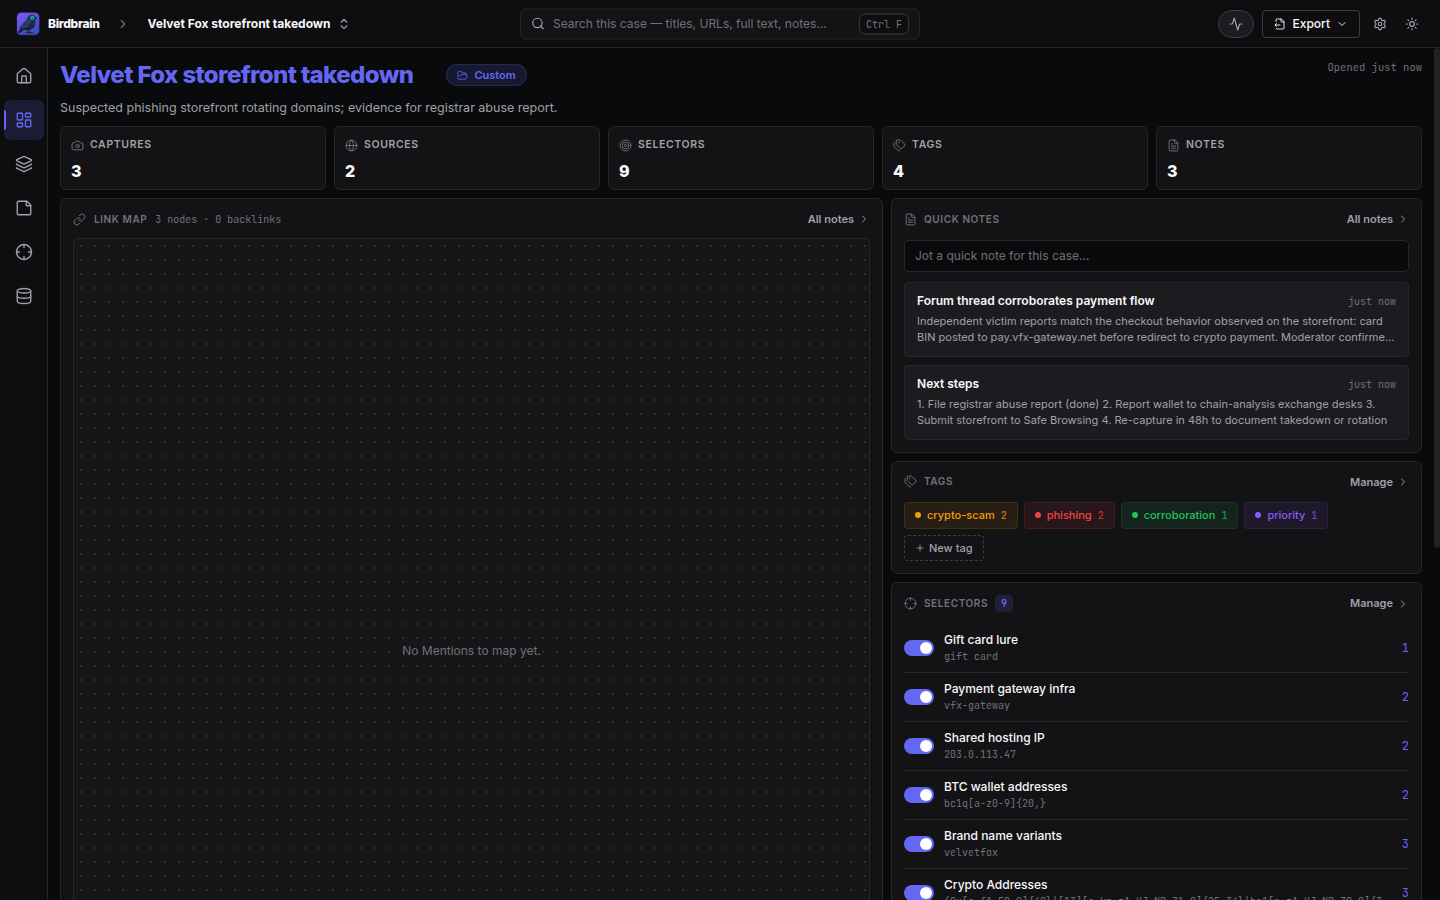
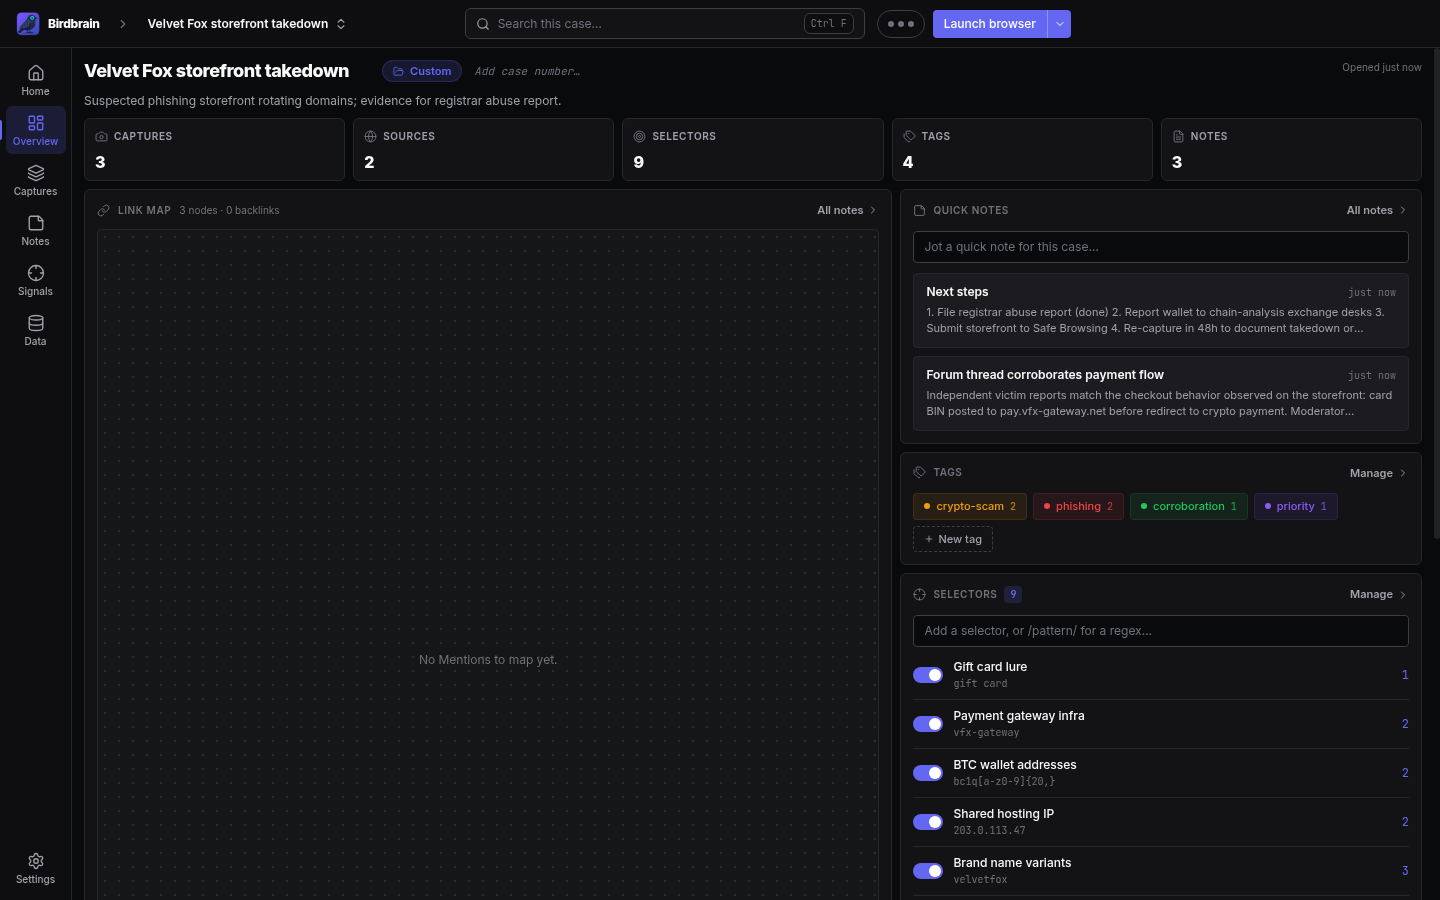
docs(site): describe the one-row chrome and refresh the tour
Slice 5.6 of the consolidation plan. The features page and the
tester guide say where the Case menu, the rail, the status control
and the capture control are. The screenshot tour's images are
regenerated; its generator had two selectors from before the pin
popover's wording changed, and stopped at the annotation step.

diff --git a/e2e/readme-screenshots.spec.ts b/e2e/readme-screenshots.spec.ts
@@ -506,14 +506,14 @@ test.describe('README screenshots', () => {
     box = await stage.boundingBox()
     if (!box) throw new Error('no stage box')
     await page.mouse.click(box.x + box.width / 2 - 185, box.y + 352)
-    const pinTextarea = page.getByPlaceholder('What did you find?')
+    const pinTextarea = page.getByPlaceholder('What does this pin mark?')
     await pinTextarea.waitFor({ timeout: 5000 })
     await pinTextarea.fill(
       'Crypto/gift-card-only payment and countdown pressure - classic storefront scam pattern.'
     )
     await page.waitForTimeout(400)
     await shootBothThemes(page, 'screenshot-annotate')
-    await page.getByRole('button', { name: /^save$/i }).click()
+    await page.getByRole('button', { name: 'Add pin' }).click()
     await page.waitForTimeout(1200)
 
     // --- 3. Verify: chain of custody (clean capture, no annotations) -------

diff --git a/CONTEXT.md b/CONTEXT.md
@@ -431,7 +431,7 @@ _Avoid_: risky change, core change, forensic change.
 
 - "source" is used for four unrelated things: `CaptureSource` (`auto`/`manual`/`selector`/`recapture`), a Note's `sourceUrl`, the extraction pipeline's `extractionSource`, and the overview's Sources block. Say "capture trigger" for `CaptureSource` and reserve "source" for the origin a Capture came from.
 
-- "auto-capture" names four unrelated things: the top-bar switch that starts and stops a **Capture Session** (#813), the Signals card and the `autoCaptureMode` setting that edit a Case's URL exclusion policy (#744), the Capture Server capturing a page before the extension attaches a **Tag** or **Note** to it, and the withdrawn passive capture whose return ADR-0037 scopes to a launched browser (#600). Say "Capture Session" for the switch, "exclusion policy" for the card, and "capture-then-attach" for the server path; outside text marked _Planned_, "passive capture" and its vocabulary stay reserved to ADR-0013 and ADR-0037 until the restoration lands.
+- "auto-capture" names four unrelated things: the top-bar control that starts and stops a **Capture Session**, a switch until the capture control's menu took it over (#813), the Signals card and the `autoCaptureMode` setting that edit a Case's URL exclusion policy (#744), the Capture Server capturing a page before the extension attaches a **Tag** or **Note** to it, and the withdrawn passive capture whose return ADR-0037 scopes to a launched browser (#600). Say "Capture Session" for that control, "exclusion policy" for the card, and "capture-then-attach" for the server path; outside text marked _Planned_, "passive capture" and its vocabulary stay reserved to ADR-0013 and ADR-0037 until the restoration lands.
 
 - "exclusion" names three unrelated things: the URL exclusion policy that stops the extension capturing a page, a Shared Case `exclude` entry that keeps an Exhibit out of exports, and an Exhibit **Withheld from analysis**. Name which one; never write "excluded" for the third.
 
